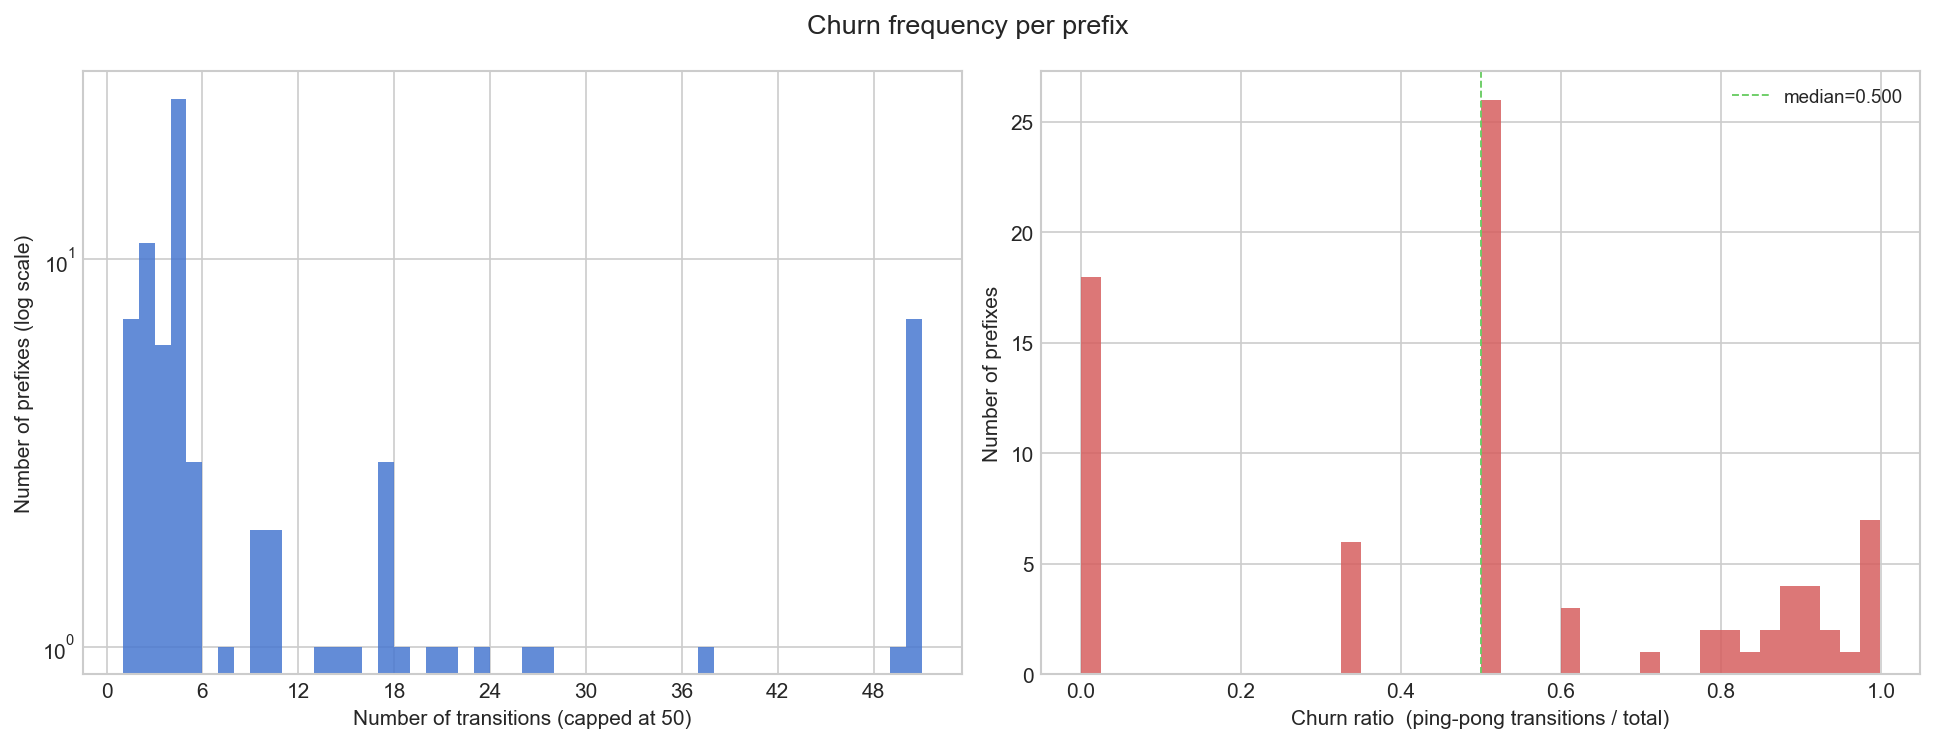
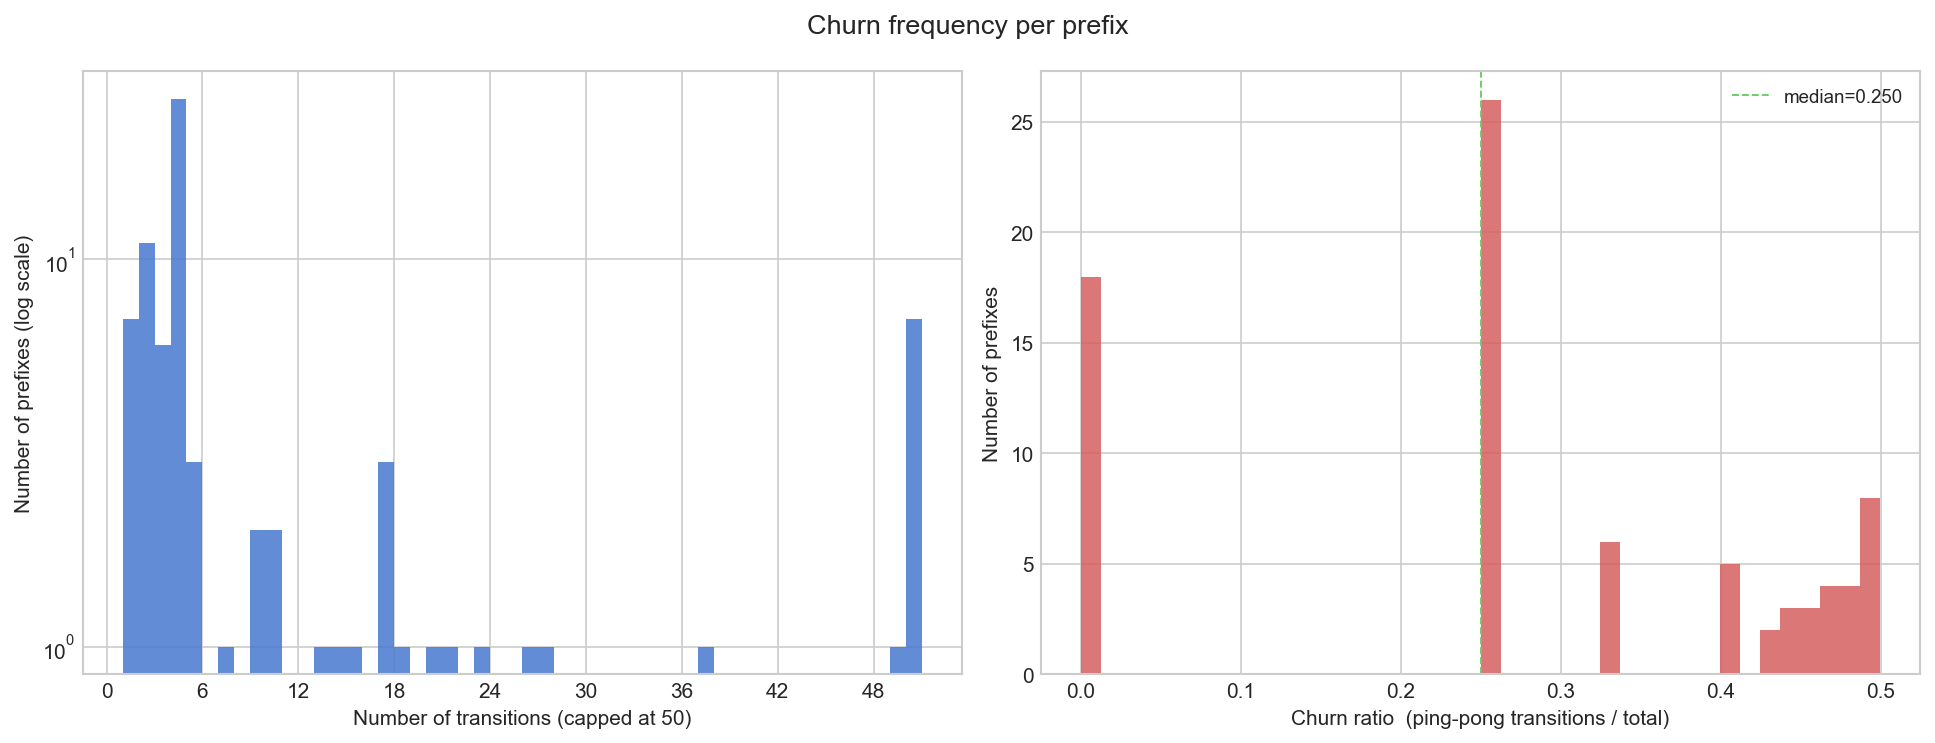
README update + pingpong fix + results update

Changed region(s): [[0.8062, 0.712, 0.9612, 0.9287], [0.6822, 0.712, 0.7132, 0.8977], [0.9612, 0.6501, 0.9922, 0.712]]

diff --git a/phase_2_lease_time_analysis/lease_time_analysis.py b/phase_2_lease_time_analysis/lease_time_analysis.py
@@ -20,8 +20,8 @@ import seaborn as sns
 from typing import Optional
 
 BGP_FILE    = "./phase_2_lease_time_analysis/lease_start_events.csv"
-C1_FILE     = "c1inference"
-C2_FILE     = "c2inferences"
+C1_FILE     = "./phase_1_leasing_inferences/c1inferences"
+C2_FILE     = "./phase_1_leasing_inferences/c2inferences"
 
 import matplotlib.style as _mplstyle
 PLOT_STYLE = "seaborn-v0_8-whitegrid" if "seaborn-v0_8-whitegrid" in _mplstyle.available else "seaborn-whitegrid"
@@ -136,9 +136,10 @@ def load_and_collapse(
         tenants_seen = set()
         pingpong     = 0
         for h in holds:
-            if h["tenant_as"] in tenants_seen:
-                pingpong += 1
-            tenants_seen.add(h["tenant_as"])
+            if not h["is_landlord_hold"]:
+                if h["tenant_as"] in tenants_seen:
+                    pingpong += 1
+                tenants_seen.add(h["tenant_as"])
 
         prefix_rows.append({
             "prefix":                  prefix,

diff --git a/Results.md b/Results.md
@@ -1,4 +1,4 @@
-# Extension Results: IP Leasing & BGP Churn Analysis
+# Results: IP Leasing & BGP Churn Analysis
 
 We analyzed the distribution and structure of inferred IP lease events using RIPE WHOIS registry data cross-referenced against BGP routing tables and AS relationship data from the CAIDA database. The methodology identifies prefixes where the BGP-originating AS has no organizational or business relationship to the RIPE-registered holder of the parent block, flagging these as inferred leases. Results are drawn from two inference groups and then fed into BGP churn analysis.
 
@@ -158,20 +158,22 @@ The validated prefix set shows extreme churn. The mean transition count per pref
 
 The churn ratio — the fraction of a prefix's transitions that return to a previously-seen tenant — has a **median of 0.50 and mean of 0.51**, meaning that on average, half of all observed transitions are ping-pong repeats. **61 of 79 prefixes (77%)** exhibit at least one ping-pong event.
 
-| Metric | Value |
-|---|---|
-| Prefixes with ping-pong | 61 / 79 (77%) |
-| Median transitions per prefix | 4 |
-| Mean transitions per prefix | 52.97 |
-| Max transitions (single prefix) | 1,925 |
-| Median churn ratio | 0.50 |
-| Mean churn ratio | 0.51 |
+| Transitions | Prefixes | % of total | Avg churn ratio | % with ping-pong |
+|---|---|---|---|---|
+| 1 | 7 | 8.9% | 0.00 | 0.0% |
+| 2 | 11 | 13.9% | 0.00 | 0.0% |
+| 3–5 | 35 | 44.3% | 0.28 | 100.0% |
+| 6–10 | 5 | 6.3% | 0.42 | 100.0% |
+| 11–50 | 14 | 17.7% | 0.47 | 100.0% |
+| 51+ | 7 | 8.9% | 0.50 | 100.0% |
+
+Notably, all prefixes with 3 or more transitions exhibit at least one ping-pong event, and the churn ratio rises steadily with transition count — converging toward ~0.50 for the most active prefixes, consistent with a back-and-forth cycling pattern between two tenants.
 
 ![Transition count per prefix and churn ratio distributions across 79 validated prefixes](phase_2_lease_time_analysis/lease_time_report/plot/plot_churn_frequency.png)
 
 ### 2.3 Intermediary Hold Times
 
-For the 61 ping-pong prefixes, intermediary hold durations are even shorter than the overall distribution, confirming that repeated tenants acquire and release prefixes in rapid succession:
+For the ping-pong prefixes, intermediary hold durations are even shorter than the overall distribution, confirming that repeated tenants acquire and release prefixes in rapid succession:
 
 | Percentile | Duration |
 |---|---|
@@ -183,17 +185,17 @@ The p50 of 14 seconds for intermediary holds strongly suggests automated BGP man
 
 | Prefix | Transitions | Ping-pong count | Churn ratio | Avg hold (sec) |
 |---|---|---|---|---|
-| 45.155.255.0/24 | 1,925 | 1,923 | 0.999 | 113 |
-| 5.183.116.0/24 | 710 | 708 | 0.997 | 9 |
-| 185.147.34.0/24 | 269 | 267 | 0.993 | 543 |
-| 89.37.99.0/24 | 267 | 265 | 0.993 | 546 |
-| 178.173.234.0/24 | 267 | 265 | 0.993 | 548 |
+| 45.155.255.0/24 | 1,925 | 962 | 0.500 | 113 |
+| 5.183.116.0/24 | 710 | 354 | 0.499 | 9 |
+| 185.147.34.0/24 | 269 | 134 | 0.498 | 543 |
+| 89.37.99.0/24 | 267 | 133 | 0.498 | 546 |
+| 178.173.234.0/24 | 267 | 133 | 0.498 | 548 |
 
 ![CDF of intermediary hold durations for ping-pong prefixes and ranked bar chart of the top 20 most-churned prefixes](phase_2_lease_time_analysis/lease_time_report/plot/plot_intermediary_holds.png)
 
 ### 2.4 Tenant Behaviour Profile
 
-The dominant tenant by breadth is **AS6079**, holding 25 unique prefixes with a median hold of just 0.5 seconds — a profile consistent with automated BGP origin rotation. The next tier of tenants (AS213122, AS54454, AS215727) hold 3 prefixes each but with much longer median holds (288 s, 749 s, and 37,551 s respectively), suggesting a different use pattern — possibly legitimate short-to-medium term leases within the confirmed set.
+The dominant tenant by total hold count is **AS400395**, with 963 holds on a single prefix (`45.155.255.0/24`) and a median hold of just 20 seconds. **AS6079** remains the broadest tenant by prefix coverage, holding 25 unique prefixes with a median hold of 0.5 seconds — a profile consistent with automated BGP origin rotation. The next tier of tenants (AS213122, AS54454, AS215727) hold 3 prefixes each but with much longer median holds (288 s, 749 s, and 37,551 s respectively), suggesting a different use pattern — possibly legitimate short-to-medium term leases within the confirmed set.
 
 | AS | Unique prefixes | Total holds | Median hold (sec) |
 |---|---|---|---|
@@ -207,15 +209,15 @@ The dominant tenant by breadth is **AS6079**, holding 25 unique prefixes with a 
 
 ### 2.5 Landlord Profile
 
-The top landlord by volume is **AS54339**, whose 25 leased prefixes have a mean churn ratio of 0.50 and a return rate of 0% — the prefixes never return to the landlord, consistent with a broker that routes address space permanently outward. **AS931** holds 3 prefixes with a near-perfect churn ratio of 0.993 and a 100% return rate, meaning the prefixes cycle back repeatedly in an almost entirely ping-pong pattern.
+The top landlord by volume is **AS54339**, whose 25 leased prefixes have a mean churn ratio of **0.25** and a return rate of 0% — the prefixes never return to the landlord, consistent with a broker routing address space permanently outward. **AS931** holds 3 prefixes with a churn ratio of 0.498 and a 100% return rate, meaning prefixes cycle back to the landlord between every tenant transition. **AS5511** holds 3 prefixes with zero churn and zero returns — each prefix was handed to a single tenant and never came back, the cleanest long-term lease profile in the dataset.
 
 | Landlord AS | Prefixes leased | Avg churn ratio | % returned |
 |---|---|---|---|
-| AS54339 | 25 | 0.500 | 0% |
-| AS931 | 3 | 0.993 | 100% |
+| AS54339 | 25 | 0.250 | 0% |
+| AS931 | 3 | 0.498 | 100% |
 | AS5511 | 3 | 0.000 | 0% |
 | AS8473 | 2 | 0.000 | 100% |
-| AS215898 | 2 | 0.913 | 100% |
+| AS215898 | 2 | 0.478 | 100% |
 
 ![Top 20 landlord ASes by leased prefix volume and scatter plot of lease volume versus churn ratio](phase_2_lease_time_analysis/lease_time_report/plot/plot_landlord_profile.png)
 
@@ -225,8 +227,7 @@ The top landlord by volume is **AS54339**, whose 25 leased prefixes have a mean 
 
 The RIPE inference pipeline identified **41,891 leased prefixes**, concentrated at /24 granularity (85.8%), predominantly `ASSIGNED PA` status (86.0%), with the US, Russia, and Germany leading geographically. New lease registrations grew **228%** between 2022 and 2025, consistent with post-exhaustion IPv4 market dynamics.
 
-BGP churn analysis on the 109 RIPE-validated prefixes reveals a striking pattern: **90.8% of hold periods last under 5 minutes**, with a median of just 14 seconds. The high ping-pong rate (77% of prefixes, median churn ratio 0.50) and sub-second intermediary holds on the most active prefixes point to automated BGP origin cycling as the dominant behavior in the confirmed lease set — distinct from the stable, longer-term leases that the RIPE registry data alone would suggest.
-
+BGP churn analysis on the 109 RIPE-validated prefixes reveals a striking pattern: **90.8% of hold periods last under 5 minutes**, with a median of just 14 seconds. The high ping-pong rate (77% of prefixes, median churn ratio 0.50) and sub-second intermediary holds on the most active prefixes point to automated BGP origin cycling as the dominant behavior in the confirmed lease set — distinct from the stable, longer-term leases that the RIPE registry data alone would suggest. However, the low-churn subset (prefixes with ≤ 4 transitions) reveals a contrasting population: p90 hold durations of ~16 hours and p99 of ~35 hours, confirming that stable, operationally genuine leases exist within the validated set but are a small minority obscured by the high-churn majority.
 
 ### Implications for Network Operators and Security Engineers
 
@@ -234,4 +235,4 @@ These findings have several practical consequences:
 
 **For network operators**, the rapid growth of the secondary IPv4 market (228% since 2022) means that IP-to-organisation mappings in threat intelligence feeds and firewall allowlists are becoming less reliable. A /24 block assigned to a benign organisation in RIPE may be actively routed by an unrelated tenant. Operators should treat RIPE registration data as a necessary but not sufficient signal for trust decisions, and complement it with real-time BGP origin validation (e.g. RPKI ROAs).
 
-**For security engineers**, the sub-second and sub-minute hold periods observed in the high-churn set (median 14 s, p90 < 5 min) are inconsistent with any legitimate infrastructure deployment lifecycle. This pattern — particularly in prefixes like `45.155.255.0/24` with near-perfect ping-pong ratios — is a strong indicator of automated origin cycling, a technique used to evade IP-based blocklists and attribution. Detection systems that rely on static IP reputation scores will systematically fail against this class of behaviour; short-lived BGP event streams should be treated as a first-class signal for abuse triage.
+**For security engineers**, the sub-second and sub-minute hold periods observed in the high-churn set (median 14 s, p90 < 5 min) are inconsistent with any legitimate infrastructure deployment lifecycle. This pattern, particularly in prefixes like `45.155.255.0/24` with 1,925 transitions and a churn ratio of 0.50, is a strong indicator of automated origin cycling, a technique used to evade IP-based blocklists and attribution. Detection systems that rely on static IP reputation scores will systematically fail against this class of behaviour; short-lived BGP event streams should be treated as a first-class signal for abuse triage.

diff --git a/README.md b/README.md
@@ -29,34 +29,64 @@ This phase replicates the methodology from Section 5.1 of the *Sublet Your Subne
 
 ## 3. Phase 2: High-Resolution Extraction (`bgp_data_record.py`)
 
-While Phase 1 identifies *who* is leasing, Phase 2 identifies *exactly when* these leases occur. This script monitors the BGP stream for origin transitions.
+While Phase 1 identifies *who* is leasing, Phase 2 identifies *when* lease transitions occur by monitoring a live BGP update stream for origin AS changes on observed prefixes.
 
-### A. Temporal Scopes
-* **Lease Duration Investigation (3-Day Window):** Conducted from **April 1 to April 3, 2026**. This "idealistic" short window provides a high-resolution snapshot of market frequency and initial lease churn.
-* **Abuse & Reputation Analysis (30-Day Window):** A longer window is used to provide enough time for malicious activity to be detected and updated on global blocklists.
+### A. Data Source
+BGP data is collected via `pybgpstream` from the **route-views2** RouteViews collector. A single collector is used as a scoping decision; events that did not propagate to this vantage point are not captured. Only IPv4 prefixes up to /24 are retained — longer prefixes are filtered out as they are typically not globally routable and are not present in the RIPE inference outputs.
 
-### B. Execution
-1. **Dependency:** `pip install pybgpstream`
-2. **Setup:** Configure `START_TIME` and `END_TIME` within the script.
-3. **Run:** `python bgp_data_record.py`
-4. **Output:** Generates `lease_start_events.csv`, capturing the exact moment an IP block moves from a Landlord to a Tenant.
+### B. Baseline Construction
+The stream is opened with `record_type="all"`, which delivers RIB (Routing Information Base) snapshot entries (`elem.type="R"`) before live update messages (`elem.type="A"`). RIB entries are used to build a `routing_baseline` dictionary mapping each prefix to its current known origin AS. The first RIB entry seen for a prefix wins; subsequent duplicates are ignored.
+
+### C. Transition Detection
+For each BGP UPDATE announcement (`elem.type="A"`), the script compares the new origin AS against the stored baseline. If they differ, a `LEASE_OR_HIJACK` event is written to the output CSV and the baseline is updated to the new AS. This means every subsequent transition — including a return to the original AS — is also captured.
+
+> **Known limitation:** The `landlord_as` field in the output CSV is the RIB-baseline AS at the
+> start of the observation window, **not** the RIPE-registered holder. The RIPE cross-referencing
+> that confirms genuine leases is performed in Phase 3 by `lease_time_analysis.py`.
+
+### D. Output
+`lease_start_events.csv` contains one row per origin transition with columns:
+`timestamp`, `prefix`, `landlord_as`, `tenant_as`, `event_type`.
+The `timestamp` is the BGP UPDATE announcement time as recorded by the route collector, **not** the time the route converged globally across the internet. BGP convergence typically takes 90 seconds or more; events recorded within the same second or within the first minute after a prior event should be interpreted as convergence-burst artifacts rather than genuine tenant transitions (see Section 4A for handling).
 
 ---
 
 ## 4. Phase 3: Extension & Computation
 
-The final phase uses the data from the previous steps to compute our specific research extensions.
-
 ### A. Lease Time Analysis (`lease_time_analysis.py`)
-Processes the extracted BGP events to characterize market behavior:
-* **Frequency Distribution:** Identifies "IP flipping" by tracking how often specific blocks change origin.
-* **Duration Distribution:** A histogram revealing the "long tail" of holding periods (from days to years).
-* **Survival Analysis:** Uses **Kaplan-Meier Curves** to show the probability of a lease remaining static over time.
 
-### B. Reputation Decay Compute (`decay_compute.py`) (Theoretical using more computation power)
-Correlates the inferred lease events with **AbuseIPDB** data:
-* **Decay Delta:** Measures the time between the BGP lease timestamp and the blocklist update.
-* **Insight:** Quantifies how long an IP remains "toxic" after a tenant change, identifying potential false positives for new lessees.
+This script processes `lease_start_events.csv` to characterise lease market behaviour.
+
+**RIPE Validation Filter:**
+Raw BGP events are first cross-referenced against the Phase 1 RIPE inference outputs (`c1inference` and `c2inferences`). Only prefixes confirmed as inferred leases by both the registry and BGP dimensions are retained. In our dataset, 109 of 3,825 raw prefixes (2.8%) survived this filter; the remainder could not be confirmed as genuine leases and are dropped before any duration or churn analysis.
+
+**Hold Period Construction:**
+Consecutive duplicate origin AS entries for the same prefix are collapsed first (back-to-back announcements by the same AS count as one hold). Each hold period duration is then computed as:
+
+`duration_sec = next_event_timestamp − current_event_timestamp`
+
+A hold period where the current AS matches the RIB-baseline AS (`landlord_as`) is flagged `is_landlord_hold = True` and excluded from tenant duration statistics, though retained for structural analysis. Open holds at the end of the observation window are right-censored and excluded.
+
+> **Note on zero-duration holds:** Two BGP events for the same prefix arriving within the same
+> second produce `duration_sec = 0`. These are real data points reflecting BGP convergence
+> bursts rather than genuine tenant transitions, and are the primary driver of the p25 = 0 s
+> result in Section 2.1. They are included in the reported distributions but should be
+> interpreted as a lower bound on measurement resolution, not as actual hold durations.
+
+**Ping-Pong Detection:**
+A transition is flagged as ping-pong if the incoming `tenant_as` has previously held that prefix within the observation window. The churn ratio is:
+
+`churn_ratio = pingpong_count / num_transitions`
+
+Note: the landlord AS returning to its own prefix mid-sequence is **not** counted as a ping-pong event; only non-landlord tenant repeats are included.
+
+**Outputs per run:**
+- `report_lease_duration_buckets.csv` / `report_lease_duration_percentiles.csv` — full distribution
+- `report_lease_duration_buckets_low_churn.csv` / `report_lease_duration_percentiles_low_churn.csv` — prefixes with ≤ 4 transitions only
+- `report_churn_frequency.csv` — per-prefix transition counts and churn ratios
+- `report_intermediary_holds.csv` — hold durations for ping-pong prefixes
+- `report_tenant_behaviour.csv` — per-tenant AS aggregated statistics
+- `report_landlord_profile.csv` — per-landlord AS lease volume and churn metrics
 
 ---
 
